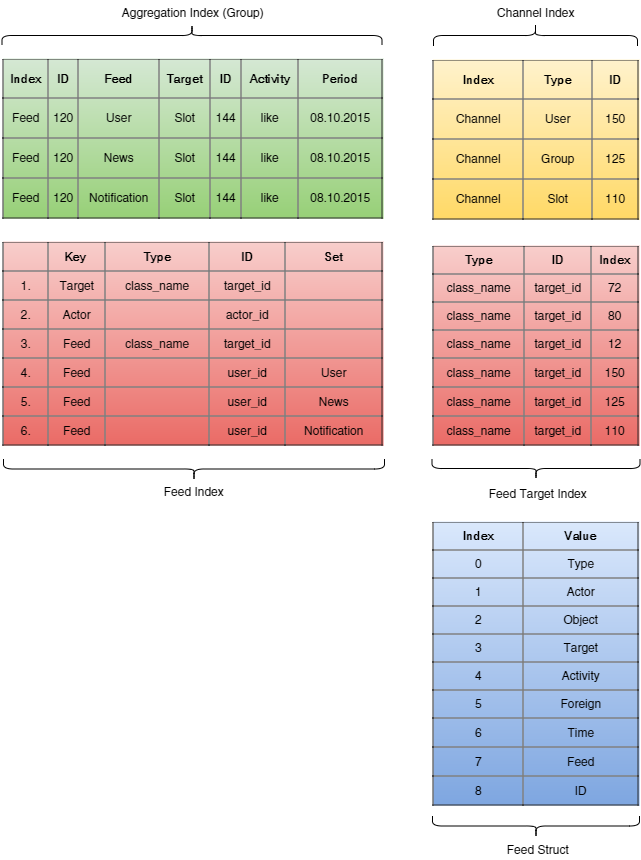
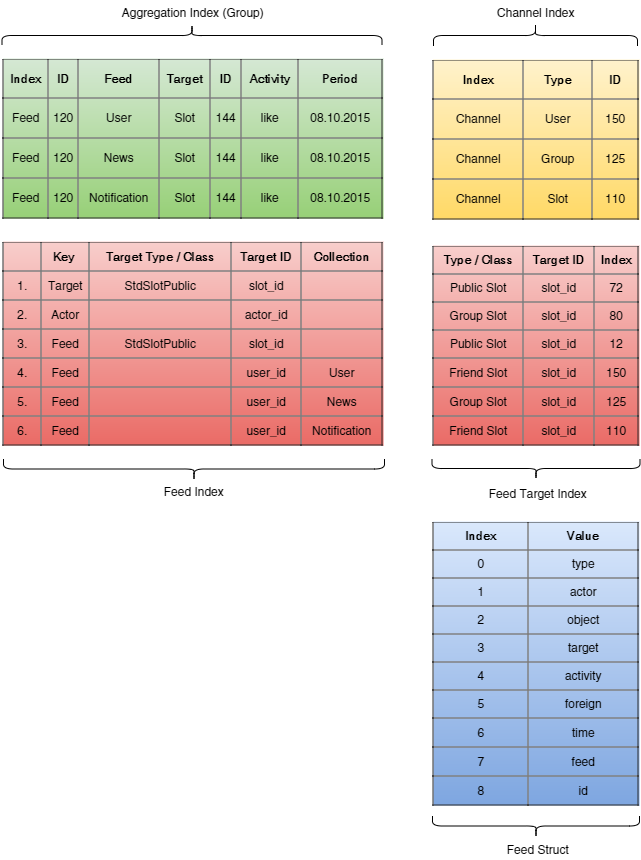
MOD update documentation for activity feed

diff --git a/doc/social_activity.md b/doc/social_activity.md
@@ -26,29 +26,26 @@ heroku run rake feed:build -a {APP_NAME}
 ```
 
 This will perform the following steps:
+
 1. Flush all redis data
 2. Re-Build: Topics, Follower, Followings
 3. Re-Build: Activities, Feeds
 
-##### Show Redis Info
+##### Some redis commands for the rails console:
 
 ```bash
-$> $redis.keys
-$> $redis.info
-```
-
-##### Flush redis data
-
-```bash
-$> $redis.flushall
+$> $redis.keys     # list redis keys
+$> $redis.info     # show redis info
+$> $redis.flushall # fush redis data
 ```
 
 ## Activity Topic Model
 
+Each target has its own topic channel which a follower can subscribe to. This will often happens automatically, e.g.: if an user reslot a slot, the user also follows this slot. With a follow model we can handle the activity messages outside of the membership relation.
+
+
 ![Activity Topic Model](topic_model.png)
 
-
-Each target has its own topic channel which a follower can subscribe to. This will often happens automatically, e.g.: if an user reslot a slot, the user also follows this slot. With a follow model we can handle the activity messages outside of the membership relation.
 
 The same topic model is used for subscribing to a stream channel.
 
@@ -63,9 +60,11 @@ The same context should be valid on: feeds, topics, followers, followings (excep
 
 ## Activity Distribution Model
 
+The "Activity Dispatcher" distribute the activities to the feeds and channels as a background process through an asynchronous worker thread.
+
+
 ![Activity Distribution Model](activity_distribution.png)
 
-The "Activity Dispatcher" distribute the activities to the feeds and channels as a background process through an asynchronous worker thread.
 
 #### Distribution Strategy: Read-Opt vs. Write-Opt
 Read-Opt: Activities will be delegated to each users feed.
@@ -74,6 +73,7 @@ Write-Opt: Stores all activities as unique to the target feed.
 Actual we are using the *Write-Read-Opt*-Strategy. Each activity will be stored respectively to its target feed index (unique). Furthermore activities will be dispatched through social relations and stores a "pointer" to the target feed index.
 
 A = Actors
+
 F = Followers (Viewers)
 
 | | Read-Opt | Write-Opt | Write-Read-Opt (Bridge) |
@@ -83,7 +83,7 @@ F = Followers (Viewers)
 | Write Access: | A * (A + F) | A | A * (A + F) + 1 |
 | Capacity: | A * (A + F) | A | A + 1 |
 
-##### 1. Example
+#### 1. Example
 3 users do an activity + 25 followers get a notification and makes a request to this activity (500.000 Activities already exist through relations of all 28 users)
 
 | | Read-Opt | Write-Opt | Write-Read-Opt (Bridge) |
@@ -93,7 +93,7 @@ F = Followers (Viewers)
 | Write Access: | 84 | 3 | 85 |
 | Capacity: | 84 | 3 | 4 |
 
-##### 2. Example
+#### 2. Example
 25 users do an activity + 3 followers get a notification and makes a request to this activity (500.000 Activities already exist through relations of all 28 users)
 
 | | Read-Opt | Write-Opt | Write-Read-Opt (Bridge) |
@@ -103,17 +103,19 @@ F = Followers (Viewers)
 | Write Access: | 700 | 25 | 701 |
 | Capacity: | 700 | 25 | 26 |
 
-NOTE: "Write-Opt" also has the effect, that all activities will be determine on each new request, there is no extra "activity-snapshot". If a user follows a slot, the user will automatically get all old activities which are stored to this target feed. If the user unfollow the slot, all activities from this slot are also removed. Furthermore the pagination on Write-Opt-Targetings is very ineffective, the whole data has to be fetched and has to be sorted by date (to determine the current/next page) as well as the visibility and policy has to be validated on full data on each request. These are good reasons for why we do not use aggressive Write-Opt-Strategy.
+#### NOTE
+"Write-Opt" also has the effect, that all activities will be determine on each new request, there is no extra "activity-snapshot". If a user follows a slot, the user will automatically get all old activities which are stored to this target feed. If the user unfollow the slot, all activities from this slot are also removed. Furthermore the pagination on Write-Opt-Targetings is very ineffective, the whole data has to be fetched and has to be sorted by date (to determine the current/next page) as well as the visibility and policy has to be validated on full data on each request. These are good reasons for why we do not use aggressive Write-Opt-Strategy.
 
 ## Live Aggregation
 In handy to make changes on the aggregation logic we are currently no storing aggregation logic into the feed data to save backward compatibility. The feed data includes the default basic data of an activity as an abstraction of it and can be reproduced ("enriched") anytime.
 
 ## Activity Feed Schema
 
+There is no logic inside the code which can affect the message. This guarantees that each message is translatable to each language. Instead we enrich the message text "on the fly" during the aggregation process.
+
+
 ![Activity Feed Schema](activity_feed_schema.png)
 
-
-There is no logic inside the code which can affect the message. This guarantees that each message is translatable to each language. Instead we enrich the message text "on the fly" during the aggregation process.
 
 ## Multi-lingual Message Composing
 
